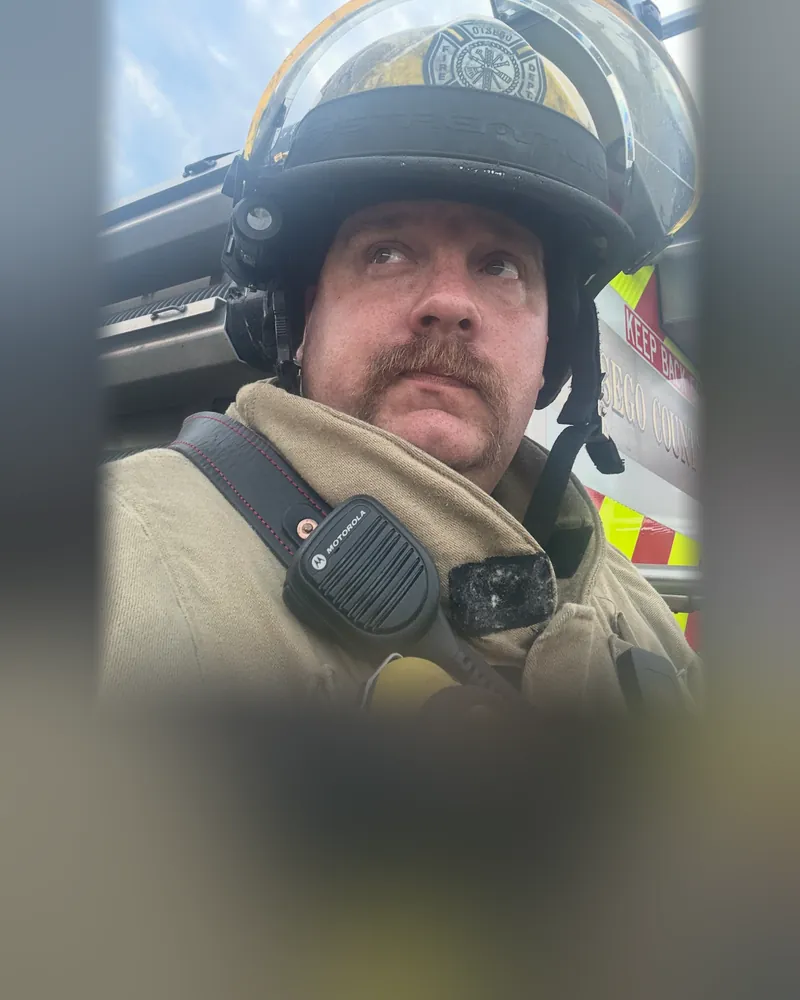
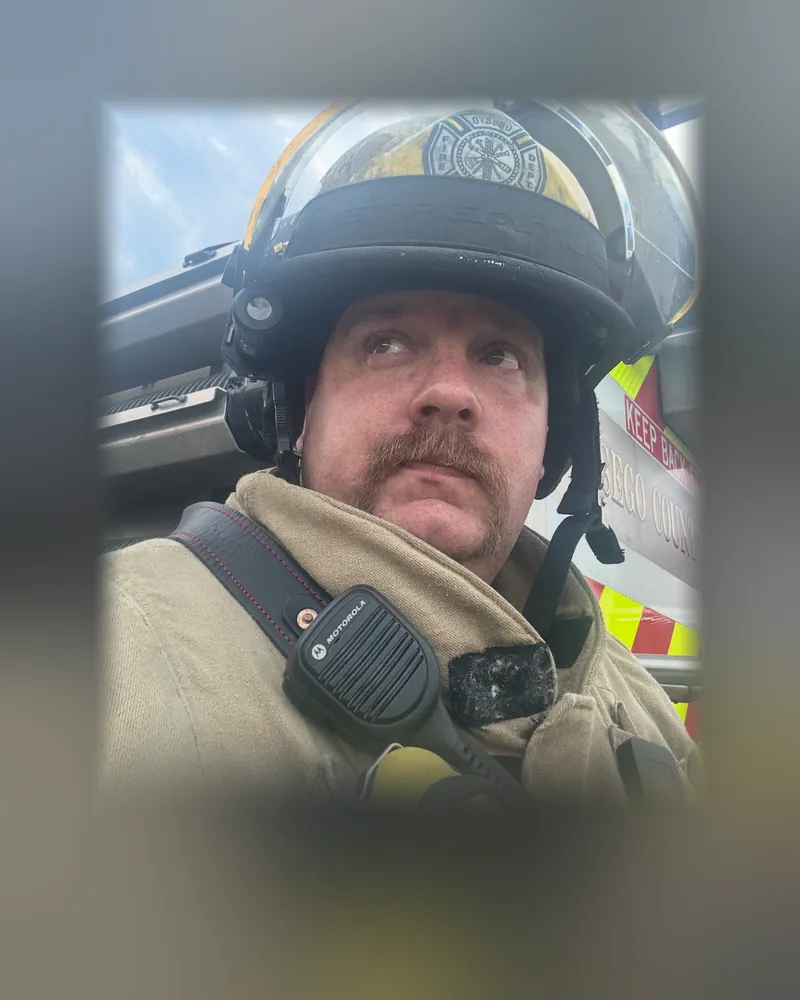
Add a blur band above each board photo matching the sides

diff --git a/index.html b/index.html
@@ -303,9 +303,9 @@
     <div class="eyebrow">Leadership</div>
     <h2 class="section-heading">Board of <em>Directors</em></h2>
     <div class="board-grid">
-      <div class="board-card board-card--photo reveal"><div class="board-photo"><img src="images/board-libby.webp?v=5" alt="Libby Benjamin" width="800" height="1000" loading="lazy"></div><div class="board-info"><div class="board-name">Libby Benjamin</div><div class="board-role">President</div></div></div>
-      <div class="board-card board-card--photo reveal"><div class="board-photo"><img src="images/board-dan.webp?v=5" alt="Dan Rypkowski" width="800" height="1000" loading="lazy"></div><div class="board-info"><div class="board-name">Dan Rypkowski</div><div class="board-role">Vice President</div></div></div>
-      <div class="board-card board-card--photo reveal"><div class="board-photo"><img src="images/board-kenneth.webp?v=5" alt="Kenneth Gibson" width="800" height="1000" loading="lazy"></div><div class="board-info"><div class="board-name">Kenneth Gibson</div><div class="board-role">Secretary / Treasurer</div></div></div>
+      <div class="board-card board-card--photo reveal"><div class="board-photo"><img src="images/board-libby.webp?v=6" alt="Libby Benjamin" width="800" height="1000" loading="lazy"></div><div class="board-info"><div class="board-name">Libby Benjamin</div><div class="board-role">President</div></div></div>
+      <div class="board-card board-card--photo reveal"><div class="board-photo"><img src="images/board-dan.webp?v=6" alt="Dan Rypkowski" width="800" height="1000" loading="lazy"></div><div class="board-info"><div class="board-name">Dan Rypkowski</div><div class="board-role">Vice President</div></div></div>
+      <div class="board-card board-card--photo reveal"><div class="board-photo"><img src="images/board-kenneth.webp?v=6" alt="Kenneth Gibson" width="800" height="1000" loading="lazy"></div><div class="board-info"><div class="board-name">Kenneth Gibson</div><div class="board-role">Secretary / Treasurer</div></div></div>
     </div>
   </div>
 </section>
